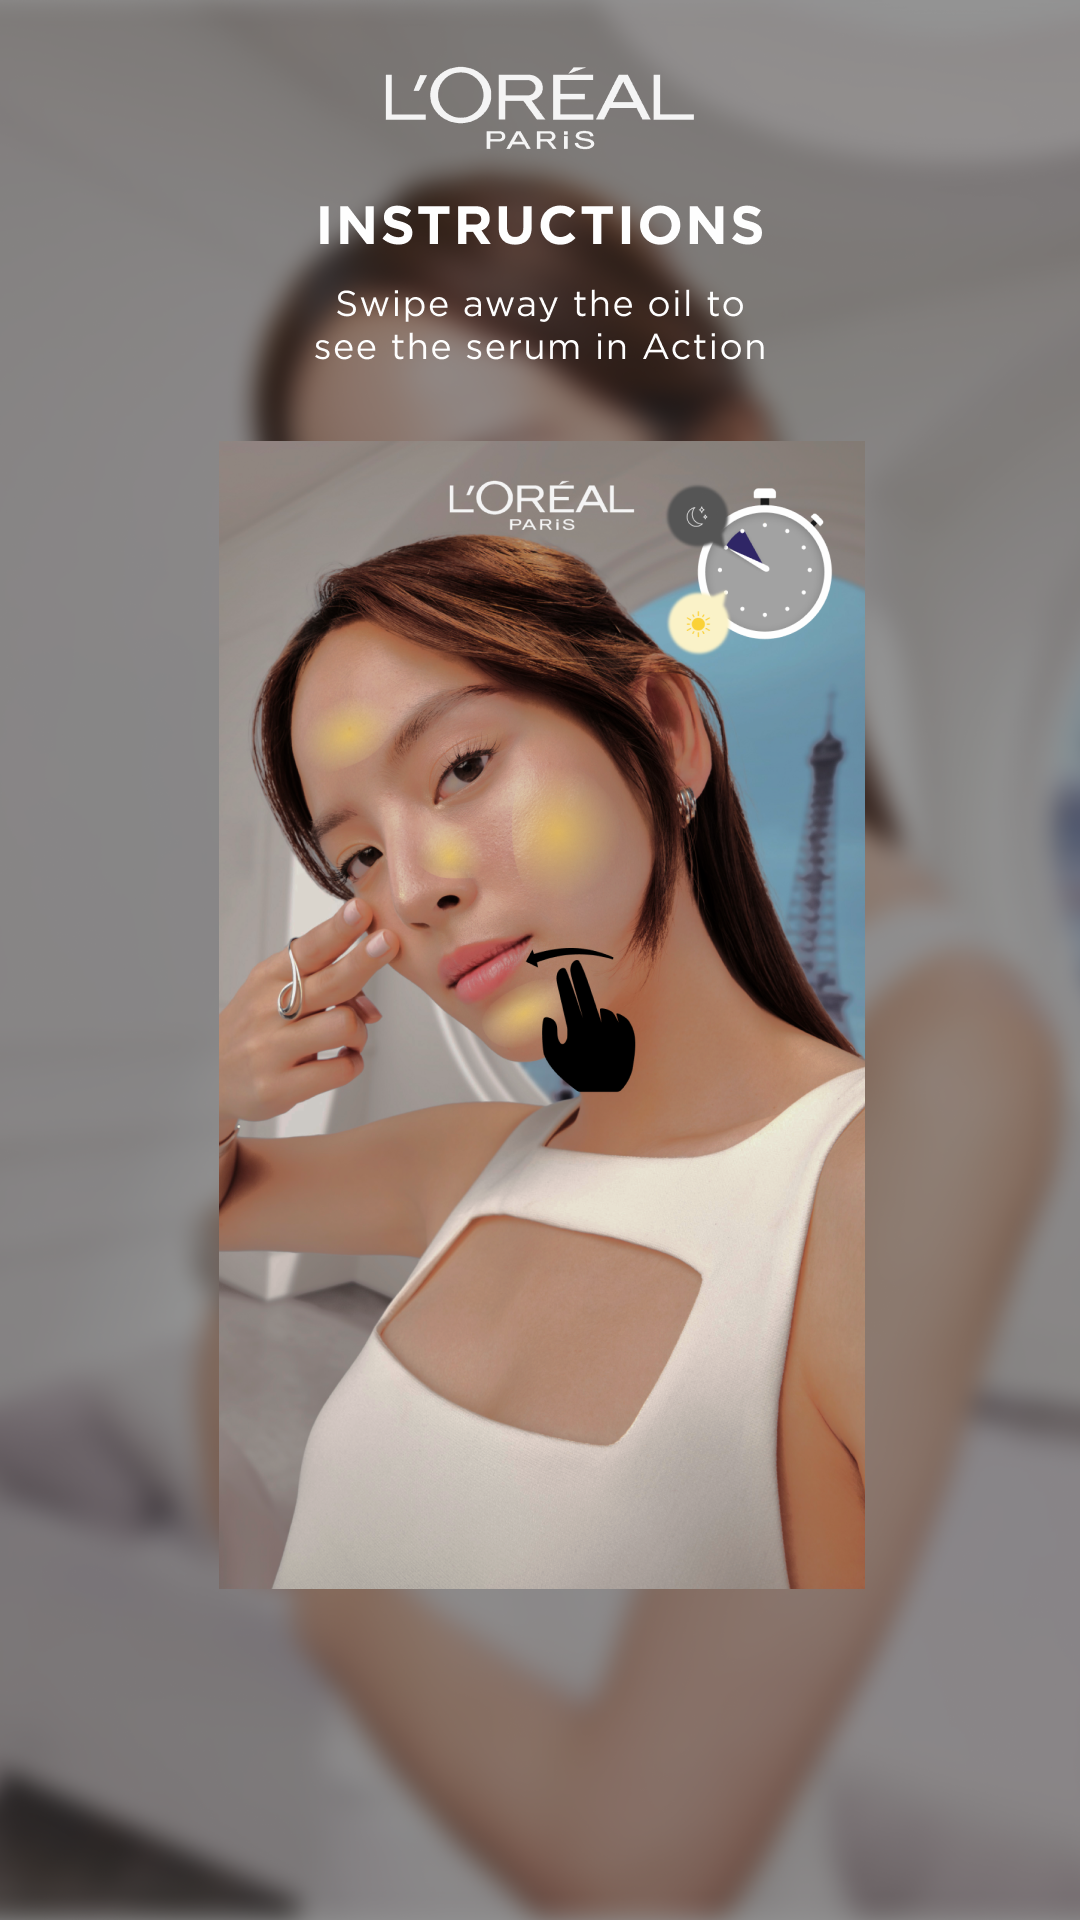
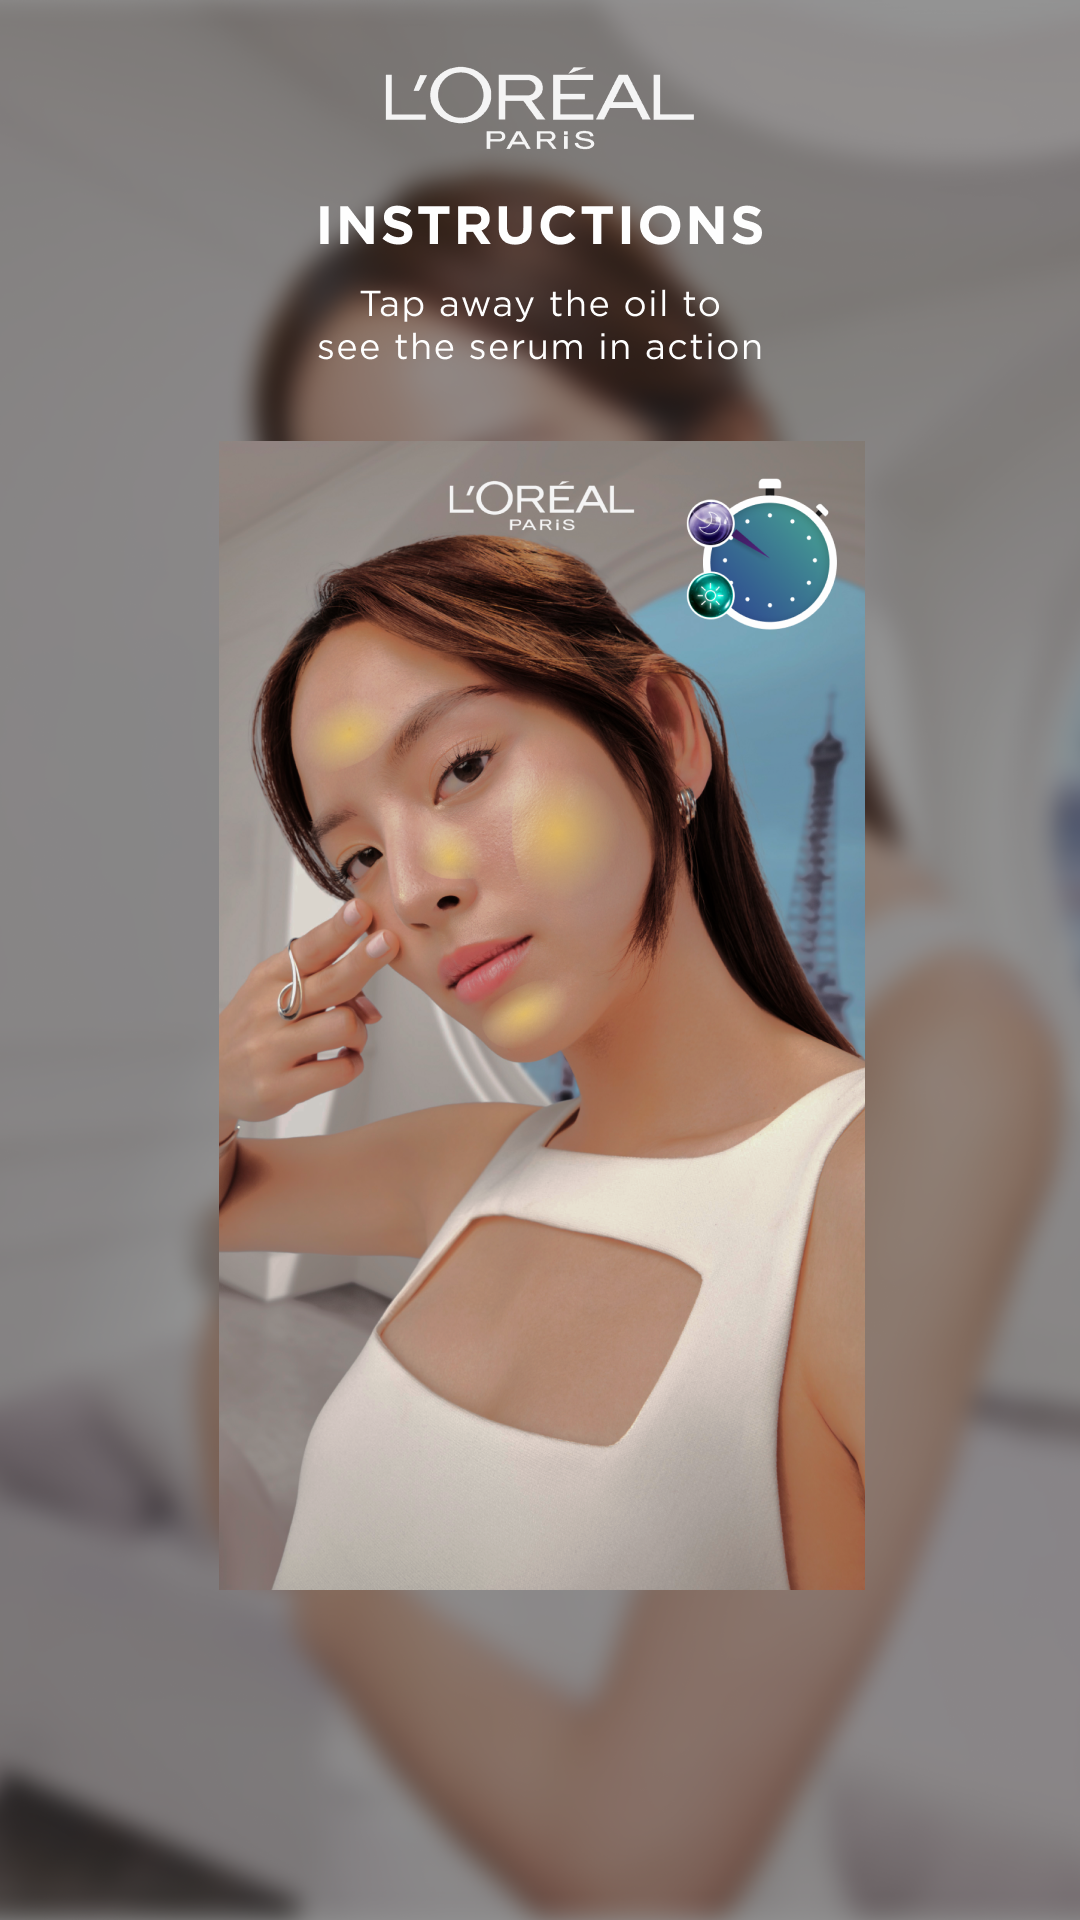
changes

Changed region(s): [[0.6111, 0.25, 0.7944, 0.3438], [0.3056, 0.1562, 0.7028, 0.1875], [0.4889, 0.4688, 0.6111, 0.5938]]

diff --git a/page3.html b/page3.html
@@ -105,11 +105,12 @@
 
       .circle {
         position: relative;
-        width: 15vw;
-        height: 9vh;
+        width: 13vw;
+        height: 13vw;
         border-radius: 50%;
         overflow: hidden;
       }
+
       #clock {
         position: absolute;
         top: 6%;
@@ -120,9 +121,8 @@
       }
       .clock {
         position: absolute;
-        top: 9%;
-        left: 88.5%;
-        width: 31%;
+        top: 13.4%;
+        left: 84%;
         height: auto;
         z-index: 1;
         transform: translate(-50%, -50%) rotate(300deg);
@@ -233,6 +233,8 @@
       const maxFillPercentage = (maxDegrees / 360) * 100; // Convert degrees to percentage
 
       function startAnimation() {
+        var img = document.getElementById("clock");
+        img.src = "images/clock.png";
         const interval = setInterval(() => {
           fillPercentage += 1; // Increase fill percentage
           // Ensure fillPercentage does not exceed maxFillPercentage
@@ -246,6 +248,8 @@
           // hand.style.transform = `rotate(${angle}deg)`; // Apply rotation
 
           if (fillPercentage >= maxFillPercentage) {
+            var img = document.getElementById("clock");
+            img.src = "images/clock1.png";
             clearInterval(interval); // Stop the interval when maxFillPercentage is reached
             setTimeout(() => {
               fillPercentage = 0; // Reset fillPercentage

diff --git a/page4.html b/page4.html
@@ -82,8 +82,8 @@
 
       .circle {
         position: relative;
-        width: 15vw;
-        height: 9vh;
+        width: 13vw;
+        height: 6.5vh;
         border-radius: 50%;
         overflow: hidden;
       }
@@ -97,9 +97,8 @@
       }
       .clock {
         position: absolute;
-        top: 9%;
-        left: 88.5%;
-        width: 31%;
+        top: 12.9%;
+        left: 84.2%;
         height: auto;
         z-index: 1;
         transform: translate(-50%, -50%) rotate(300deg);
